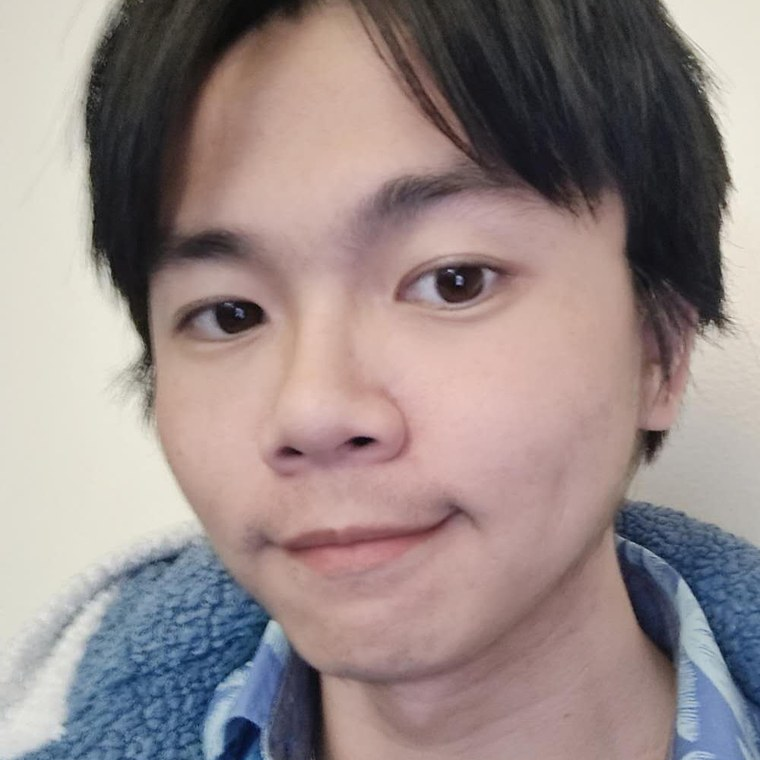
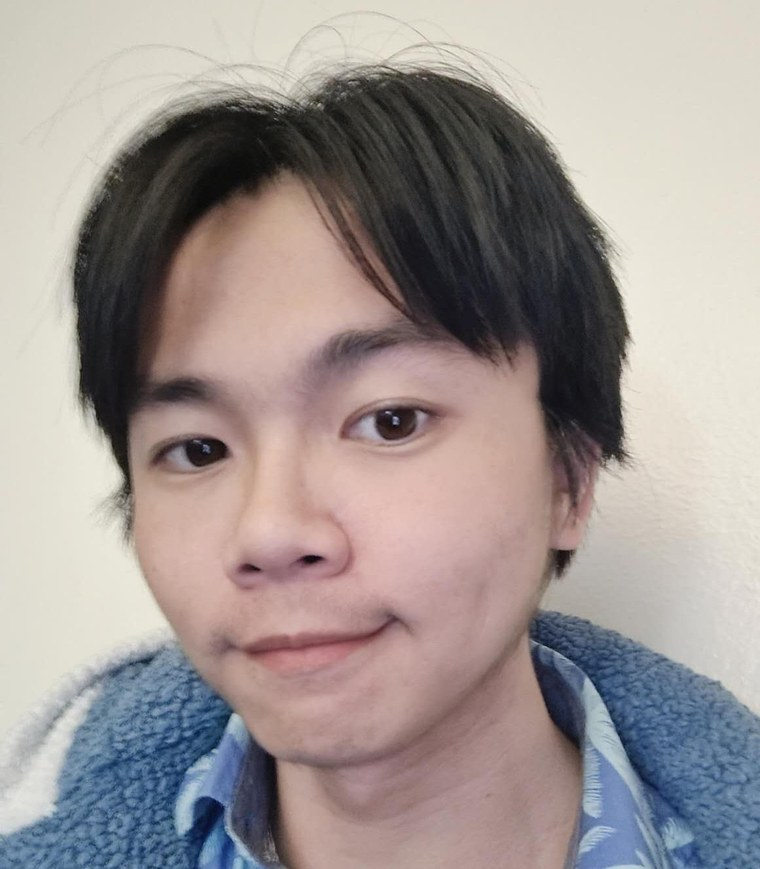
Use the supplied crop as-is
Replace my crop with the manually cropped 1161x1328 file, downscaled
to 760x869. The frame ratio is set to match the source exactly so
object-fit never trims it.

diff --git a/css/site.css b/css/site.css
@@ -190,10 +190,10 @@ section.resume-section {
 }
 
 .hero-portrait {
-    /* square crop taken from the 1280x1706 original, which is wide
-       enough to fit the whole head at 1:1 */
+    /* frame matches the supplied crop exactly, so object-fit never
+       trims it */
     width: 14rem;
-    aspect-ratio: 1 / 1;
+    aspect-ratio: 760 / 869;
     height: auto;
     border-radius: 14px;
     object-fit: cover;
